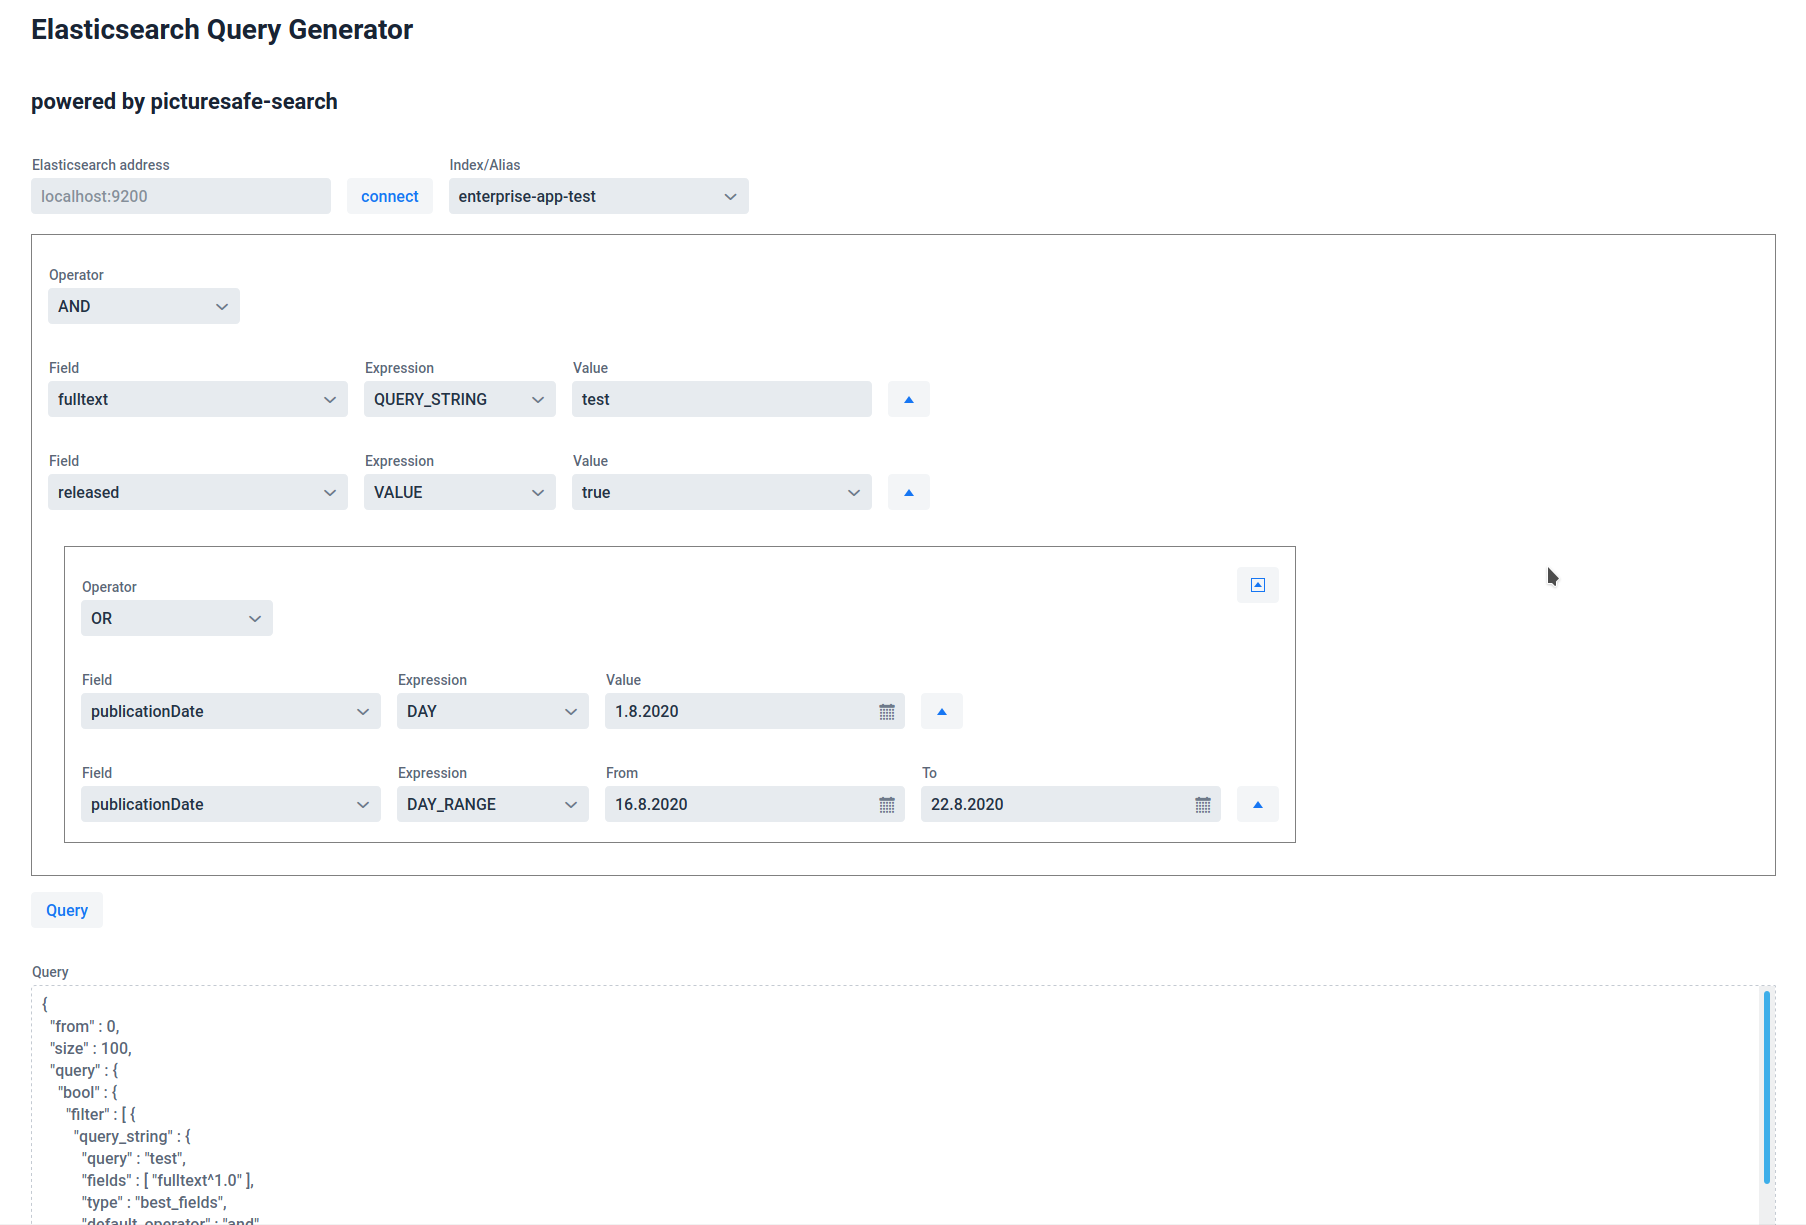
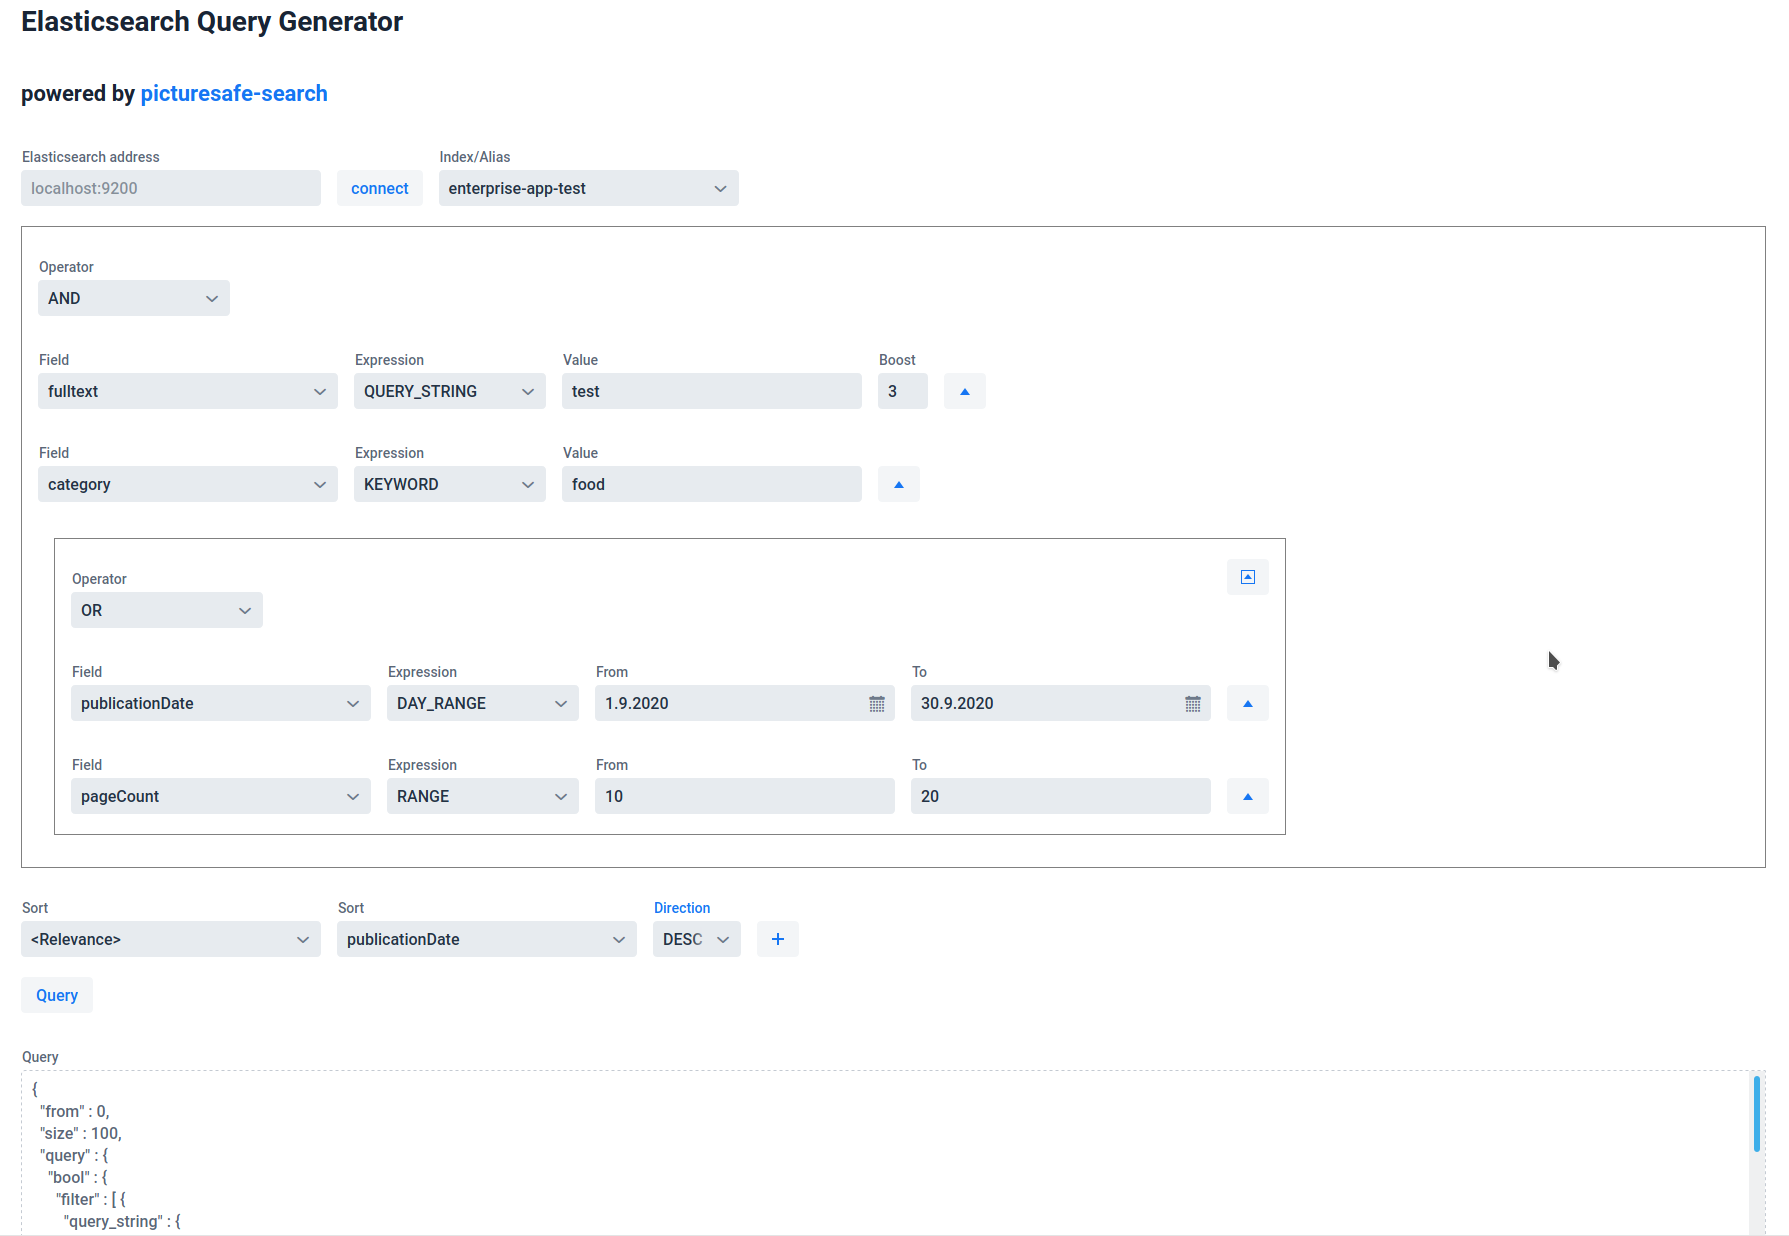
Fixed Spring Boot Starter

diff --git a/src/main/java/de/picturesafe/search/querygenerator/views/main/MainPanel.java b/src/main/java/de/picturesafe/search/querygenerator/views/main/MainPanel.java
@@ -16,7 +16,9 @@
 
 package de.picturesafe.search.querygenerator.views.main;
 
+import com.vaadin.flow.component.Text;
 import com.vaadin.flow.component.button.Button;
+import com.vaadin.flow.component.html.Anchor;
 import com.vaadin.flow.component.html.H2;
 import com.vaadin.flow.component.html.H3;
 import com.vaadin.flow.component.orderedlayout.HorizontalLayout;
@@ -95,9 +97,11 @@ public class MainPanel extends VerticalLayout implements QueryLayout {
 		connectPanel = new HorizontalLayout(addressField, connectButton);
 		connectPanel.setVerticalComponentAlignment(Alignment.END, connectButton);
 
+		final Anchor picturesafeSearchLink = new Anchor("https://picturesafe-search.io/", "picturesafe-search");
+		picturesafeSearchLink.setTarget("_blank");
 		add(
 				new H2("Elasticsearch Query Generator"),
-				new H3("powered by picturesafe-search"),
+				new H3(new Text("powered by "), picturesafeSearchLink),
 				connectPanel
 		);
 	}

diff --git a/src/main/java/de/picturesafe/search/querygenerator/views/main/SortOptionPanel.java b/src/main/java/de/picturesafe/search/querygenerator/views/main/SortOptionPanel.java
@@ -71,7 +71,7 @@ public class SortOptionPanel extends HorizontalLayout implements QueryLayout {
         } else if (directionSelector == null) {
             directionSelector = new Select<>(SortOption.Direction.ASC, SortOption.Direction.DESC);
             directionSelector.setLabel("Direction");
-            directionSelector.setWidth("80px");
+            directionSelector.setWidth("88px");
             directionSelector.setValue(SortOption.Direction.ASC);
             add(directionSelector);
         }
